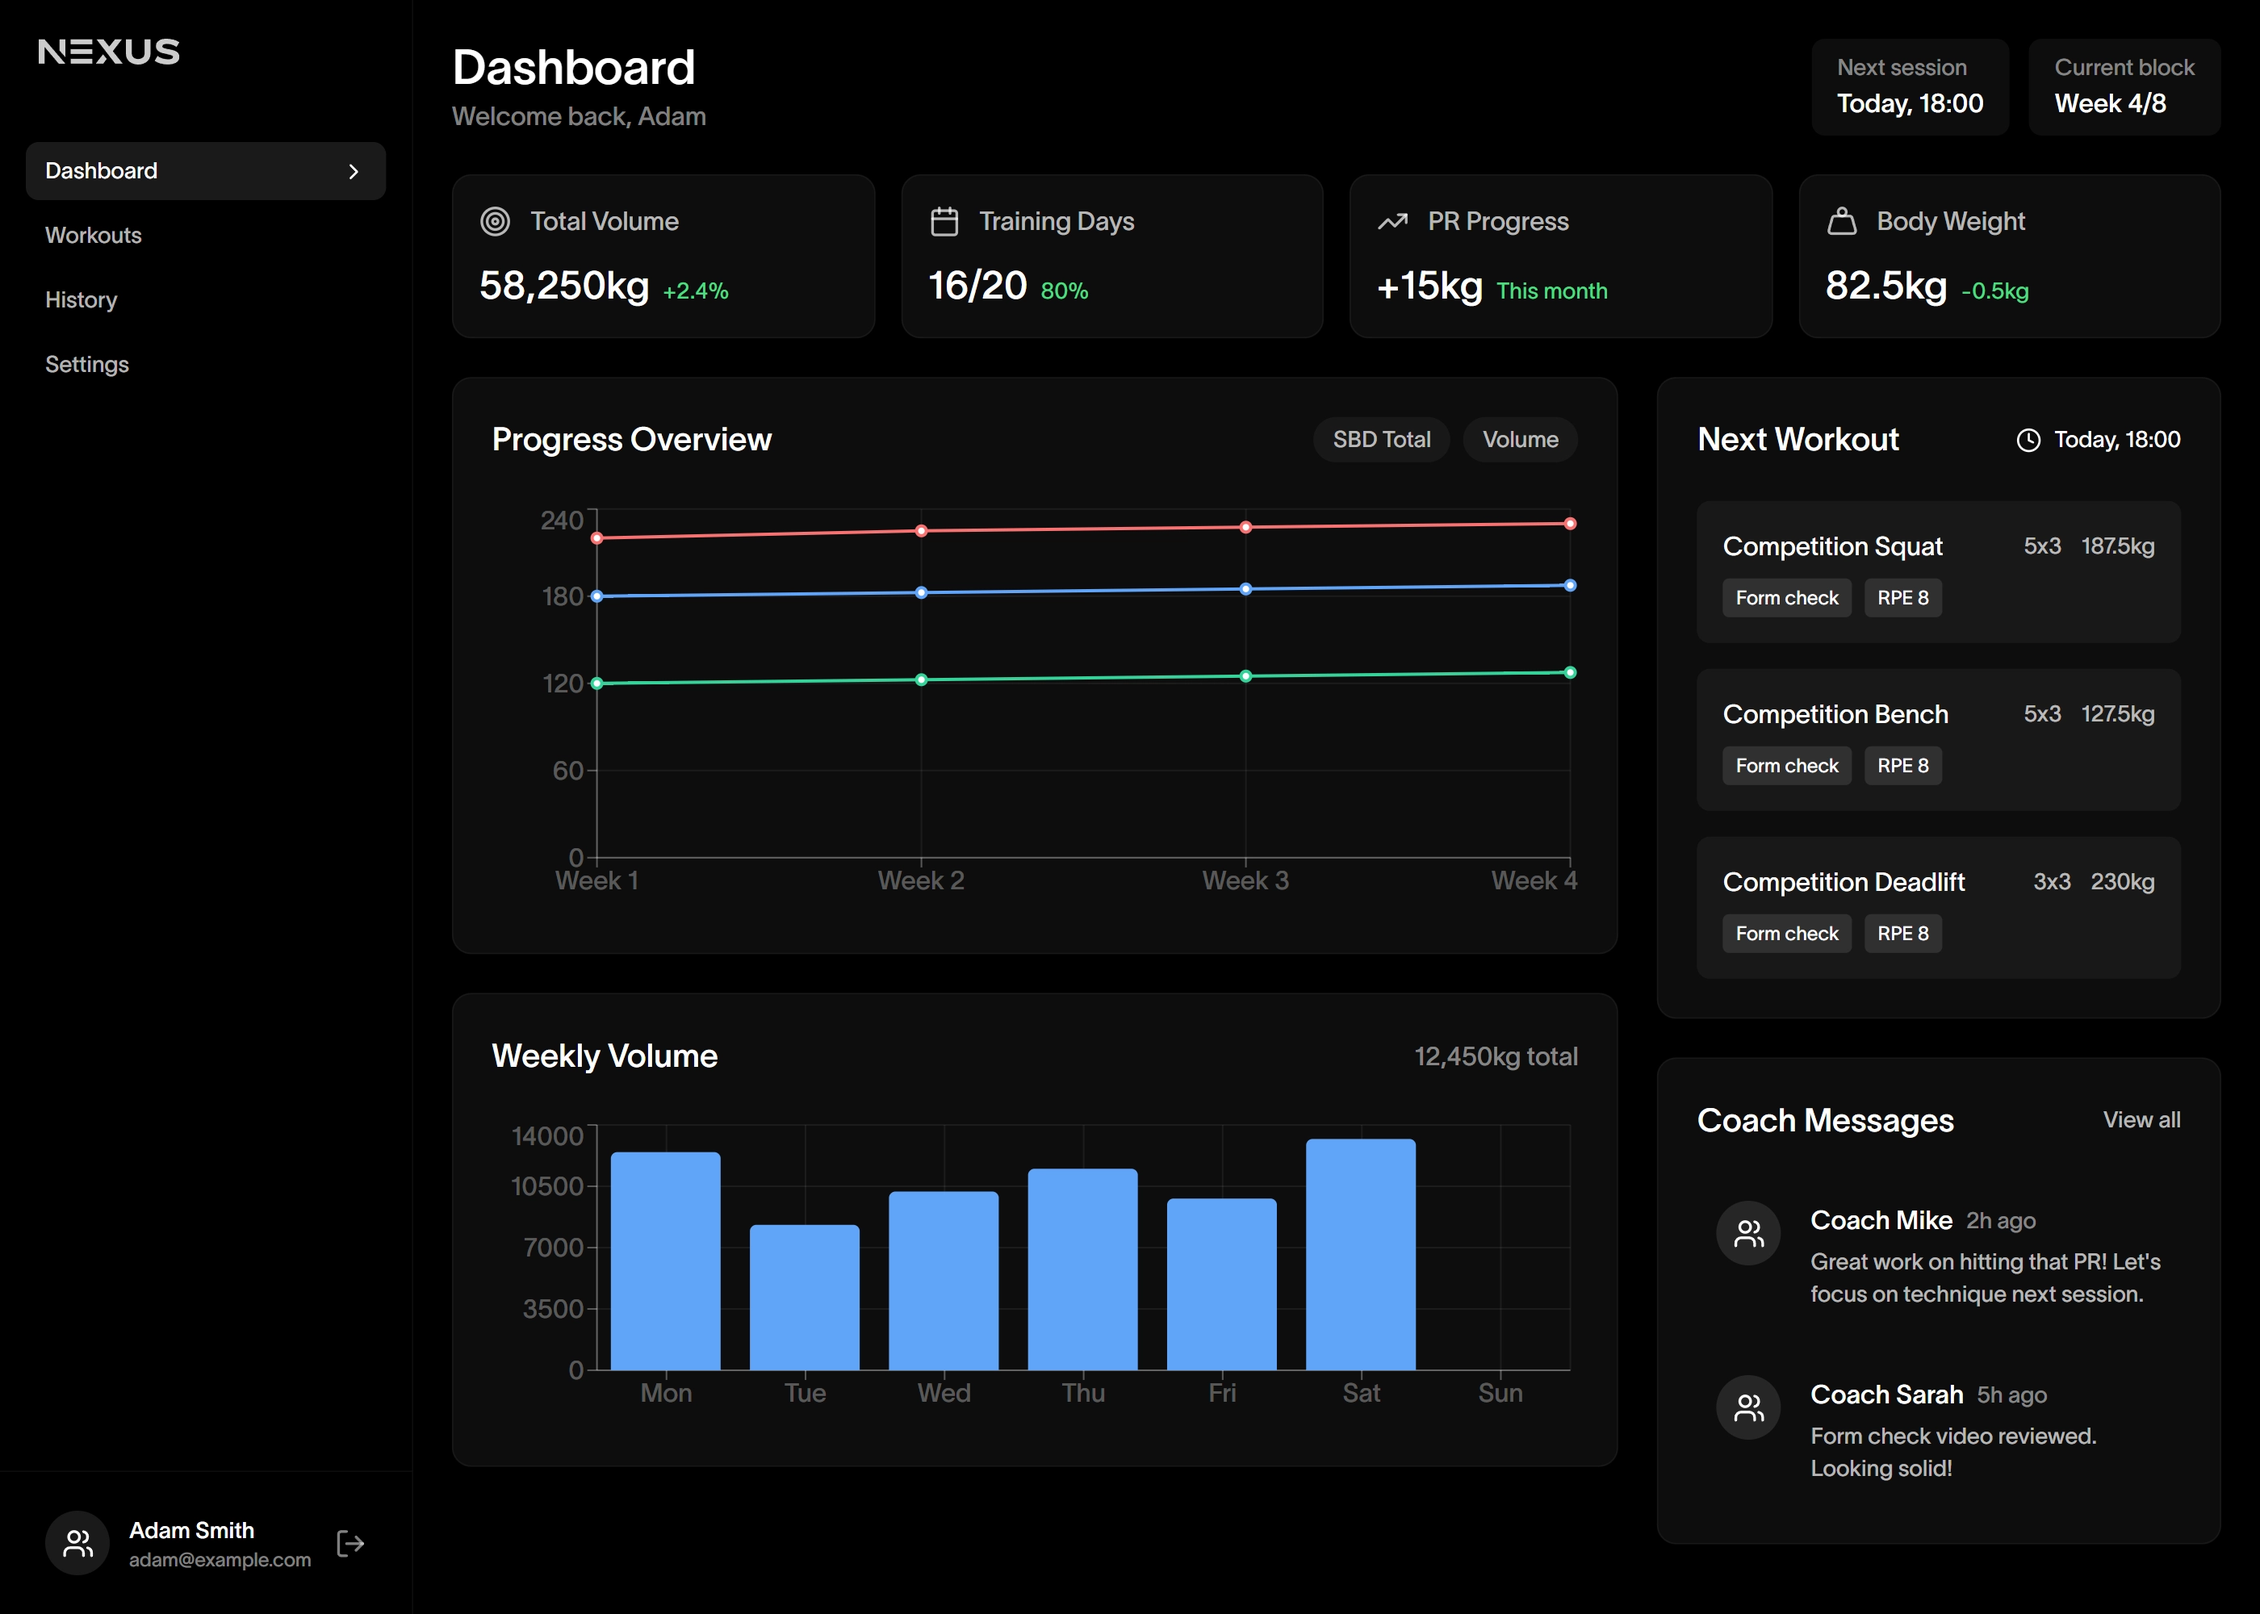
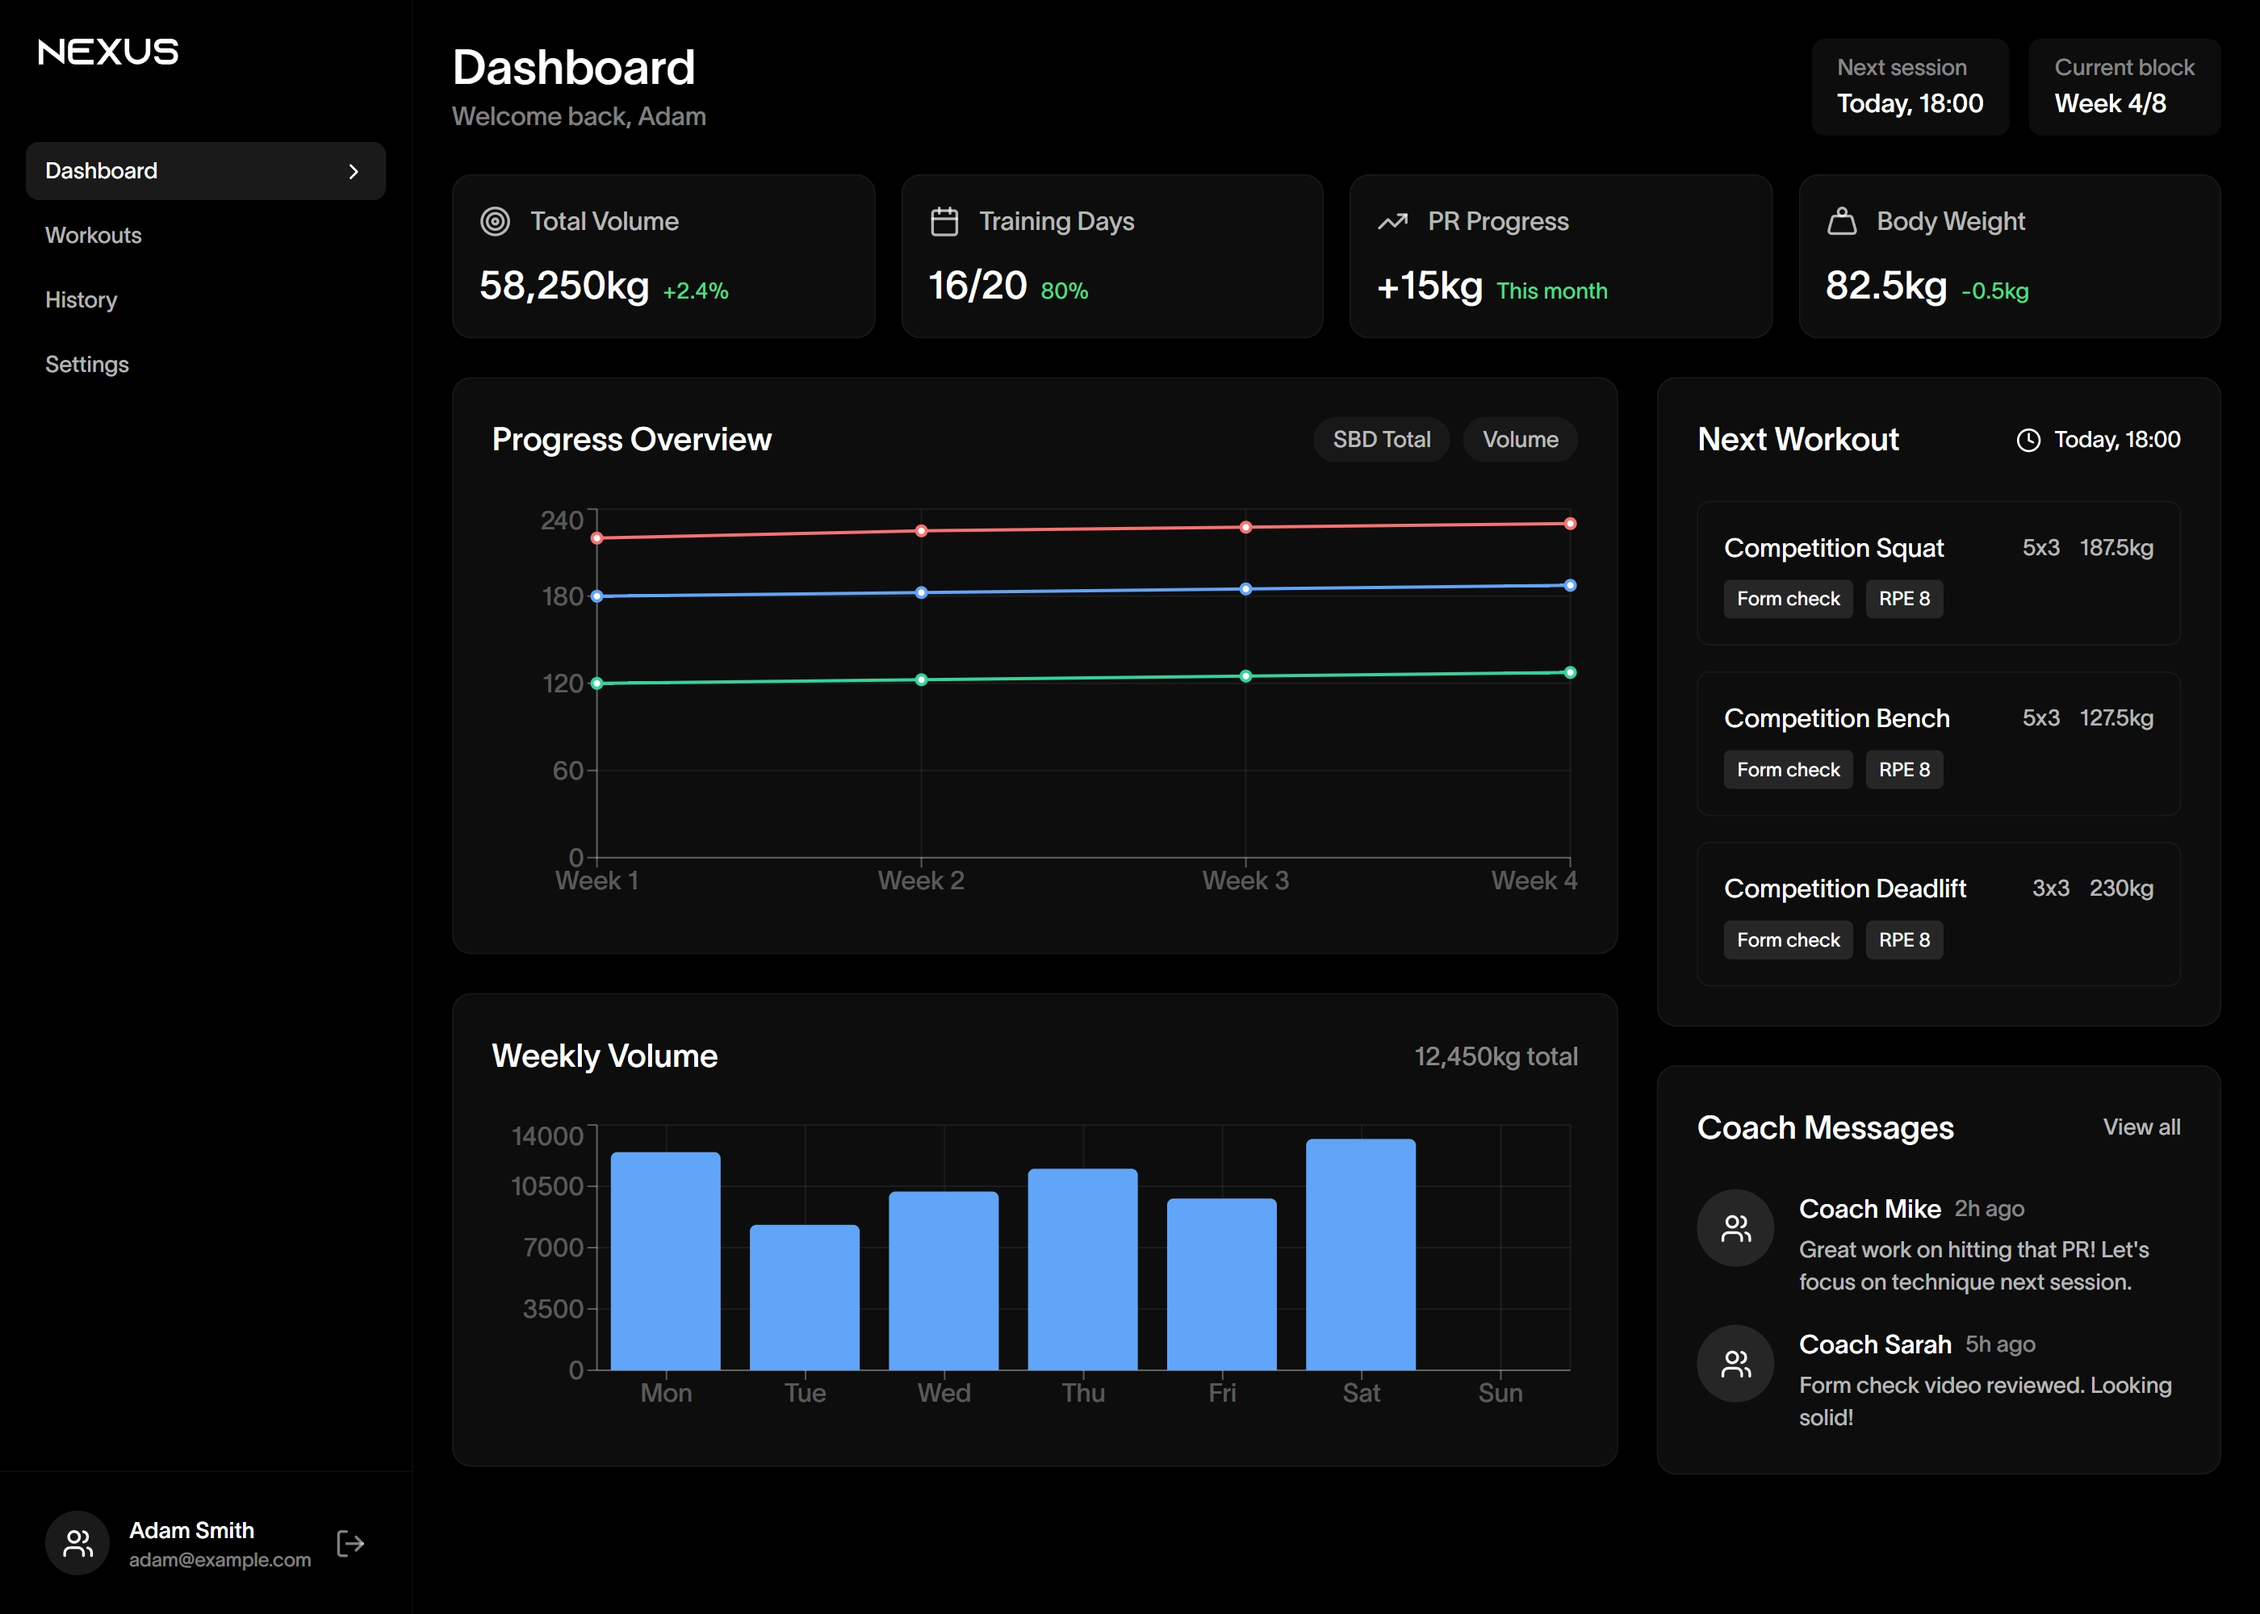
changed dashboard mockup

diff --git a/app/dashboard/page.tsx b/app/dashboard/page.tsx
@@ -45,25 +45,13 @@ const Sidebar = () => {
             <div className="flex flex-col h-full">
                 <div className="p-6 mb-6">
                     <button
-
-                        className="text-white/80 h-4 flex items-center"
+                        className="text-white h-4 flex items-center"
                         aria-label="Go to homepage">
-                        <svg
-                            xmlns="http://www.w3.org/2000/svg"
-                            viewBox="0 0 94.22 17.3"
+                        <img
+                            src="/logos/nexus-logo.svg"
+                            alt="Nexus Logo"
                             className="h-full w-auto"
-                            fill="currentColor">
-                            <path
-                                d="m0,.44h3.93l13.93,16.28-4.44.05L3.93,5.51v11.21H0V.44ZM13.93.44h3.93v11.93l-3.93-4.4V.44Z"/>
-                            <path
-                                d="m35.86.44v3.28h-14.53V.44h14.53Zm0,6.51v3.25h-14.53v-3.25h14.53Zm0,6.49v3.28h-14.46v-3.28h14.46Z"/>
-                            <path
-                                d="m43.18,16.72h-5.05l4.93-6.26,2.47,3.07-2.35,3.19Zm8.05,0L38.72.44h4.65l3.84,4.84,3.84-4.84h4.63l-6.05,7.88,6.65,8.4h-5.05Z"/>
-                            <path
-                                d="m58.39.44h3.93v9.63c0,2.35,2.14,3.54,4.3,3.54s4.3-1.19,4.3-3.54V.44h3.93v9.63c0,4.81-4.12,7.23-8.23,7.23s-8.23-2.42-8.23-7.23V.44Z"/>
-                            <path
-                                d="m92.27,5.56c-1.49-1.3-4.3-2.12-6.49-2.12-1.72,0-3.02.49-3.02,1.6,0,2.84,11.46.7,11.46,7.19,0,3.58-3.72,5.02-7.77,5.02-3.3,0-6.84-.95-8.81-2.49l1.93-3.26c1.54,1.42,4.81,2.3,7.28,2.3,1.72,0,3.07-.46,3.07-1.49,0-2.95-11.42-.91-11.42-7.35,0-3.58,3.35-4.98,7.12-4.98,3.12,0,6.51.93,8.56,2.4l-1.91,3.16Z"/>
-                        </svg>
+                        />
                     </button>
                 </div>
 
@@ -245,7 +233,7 @@ const Dashboard = () => {
                                         { name: 'Competition Bench', sets: '5x3', weight: '127.5kg' },
                                         { name: 'Competition Deadlift', sets: '3x3', weight: '230kg' }
                                     ].map((exercise, index) => (
-                                        <div key={index} className="bg-white/5 rounded-lg p-4">
+                                        <div key={index} className="border border-white/[0.05] rounded-lg p-4">
                                             <div className="flex items-center justify-between mb-2">
                                                 <span>{exercise.name}</span>
                                                 <div className="flex gap-3 text-white/70 text-sm">
@@ -276,8 +264,8 @@ const Dashboard = () => {
                                         { name: 'Coach Mike', message: 'Great work on hitting that PR! Let\'s focus on technique next session.', time: '2h ago' },
                                         { name: 'Coach Sarah', message: 'Form check video reviewed. Looking solid!', time: '5h ago' }
                                     ].map((message, index) => (
-                                        <div key={index} className="grid grid-cols-10 gap-4 p-3 rounded-lg hover:bg-white/5">
-                                            <div className="col-span-2 w-10 h-10 rounded-full bg-white/10 flex items-center justify-center">
+                                        <div key={index} className="grid grid-cols-10 gap-4 rounded-lg hover:bg-white/5">
+                                            <div className="col-span-2 w-12 h-12 rounded-full bg-white/10 flex items-center justify-center">
                                                 <Users className="w-5 h-5" />
                                             </div>
                                             <div className="col-span-8">

diff --git a/app/components/backgroundOverlay/backgroundOverlay.tsx b/app/components/backgroundOverlay/backgroundOverlay.tsx
@@ -1,6 +1,6 @@
 export default function BackgroundOverlay() {
     return (
-        <div className="absolute w-full h-full bg-black opacity-50">
+        <div className="absolute w-full h-full bg-black opacity-25">
             <div
                 className="absolute inset-0"
                 style={{
